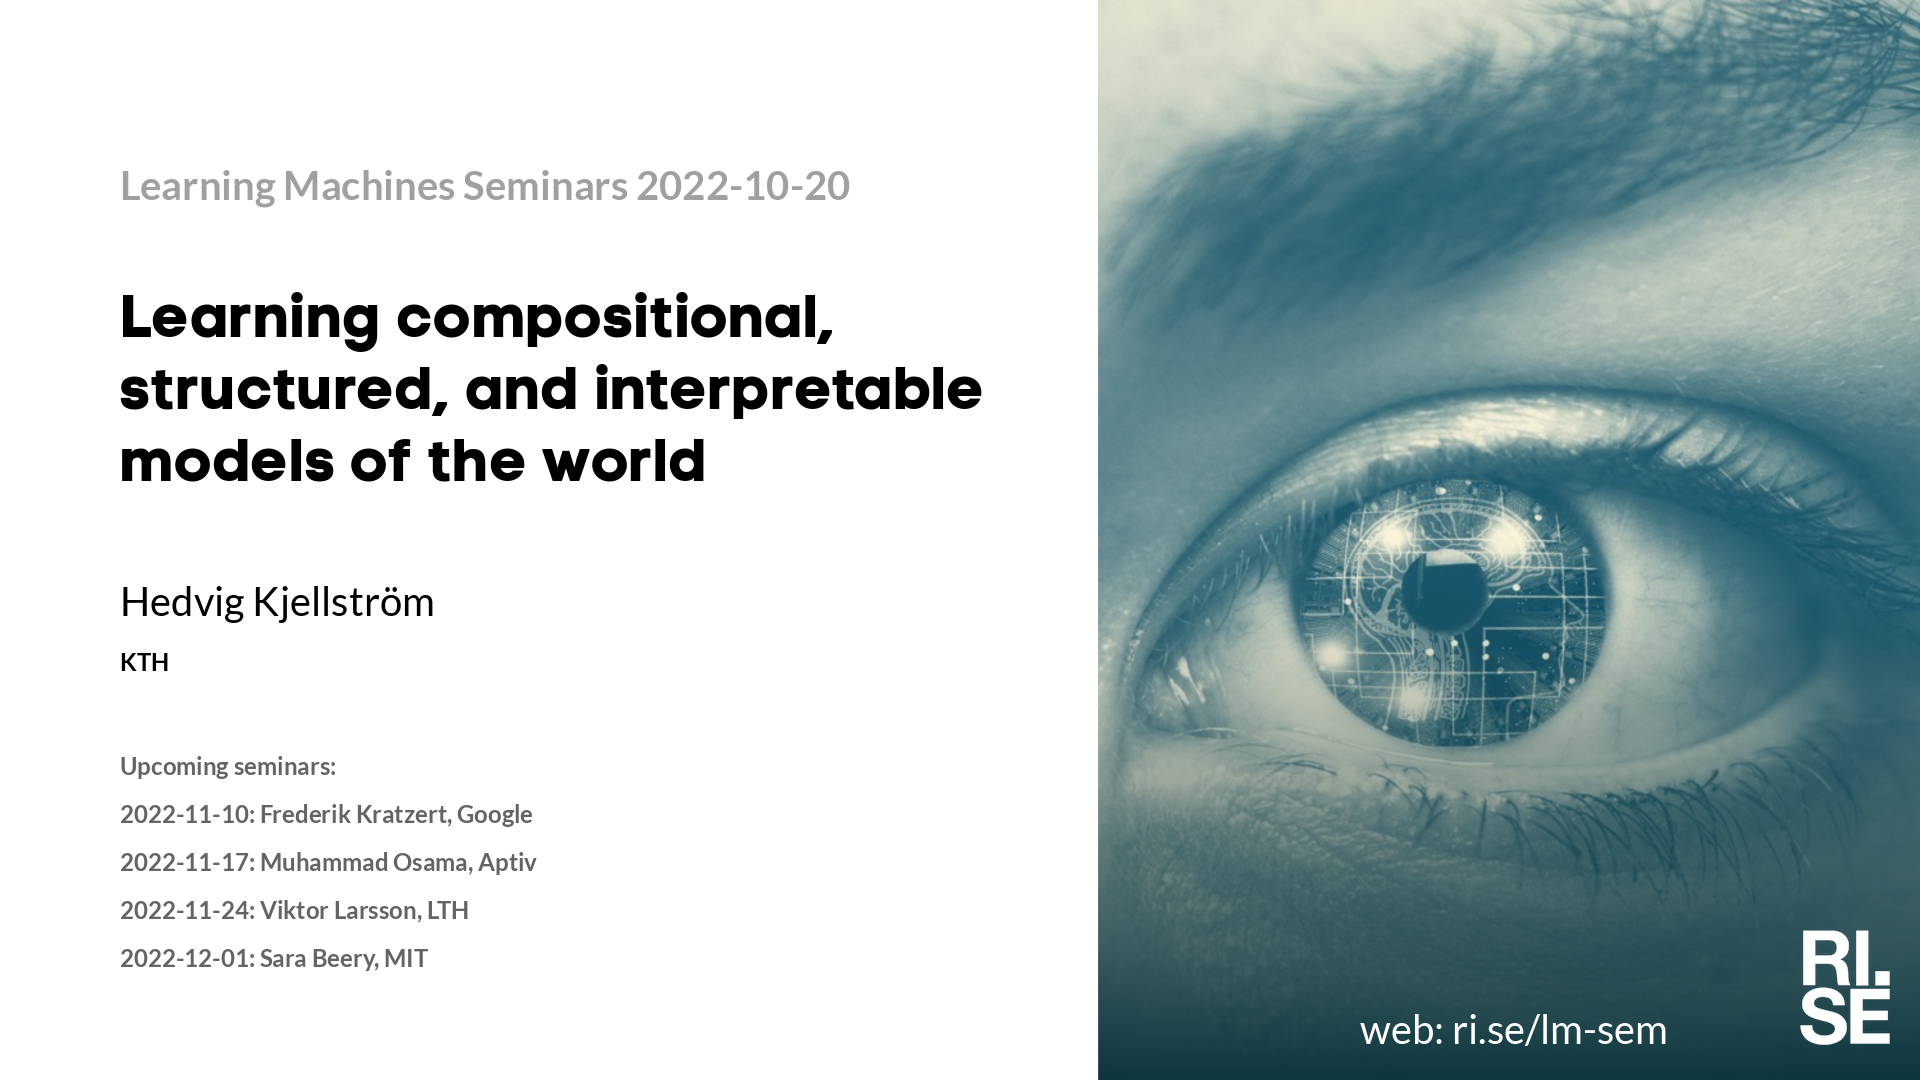
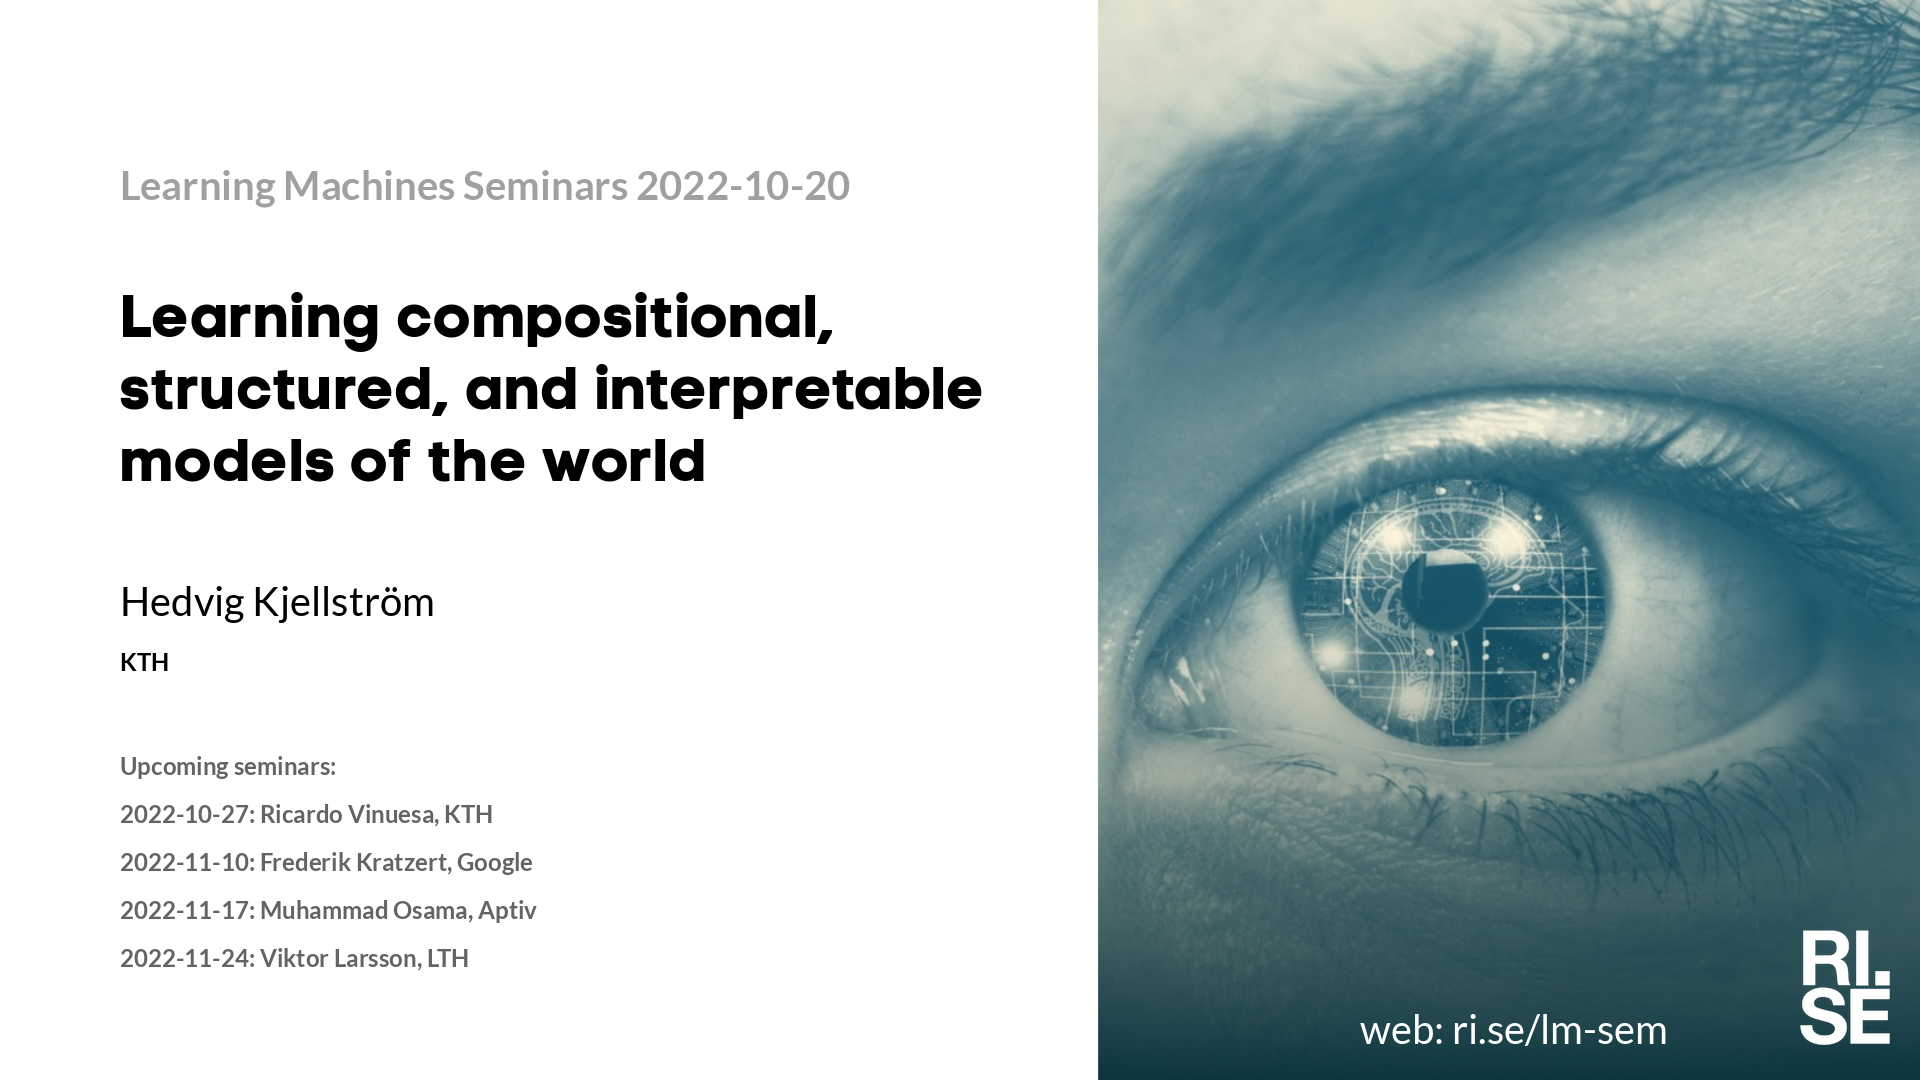
Updated plan on web site.

Changed region(s): [[0.125, 0.7944, 0.2812, 0.9167], [0.0938, 0.7333, 0.2812, 0.7639]]

diff --git a/lm/2022-10-20.md b/lm/2022-10-20.md
@@ -24,10 +24,10 @@ Hedvig has received several prizes for her research, including the 2010 Koenderi
 
 **Upcoming seminars:**
 
+* 2022-10-27: Ricardo Vinuesa, KTH
 * 2022-11-10: Frederik Kratzert, Google
 * 2022-11-17: Muhammad Osama, Aptiv
 * 2022-11-24: Viktor Larsson, LTH
-* 2022-12-01: Sara Beery, MIT
 
 More information and coming seminars: [https://ri.se/lm-sem](https://ri.se/lm-sem)
 
